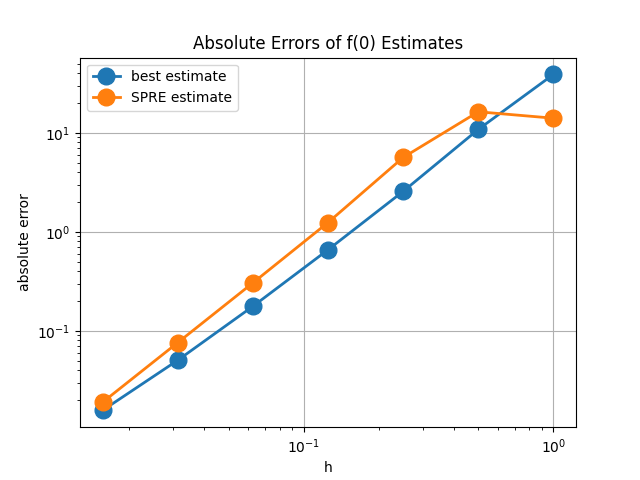
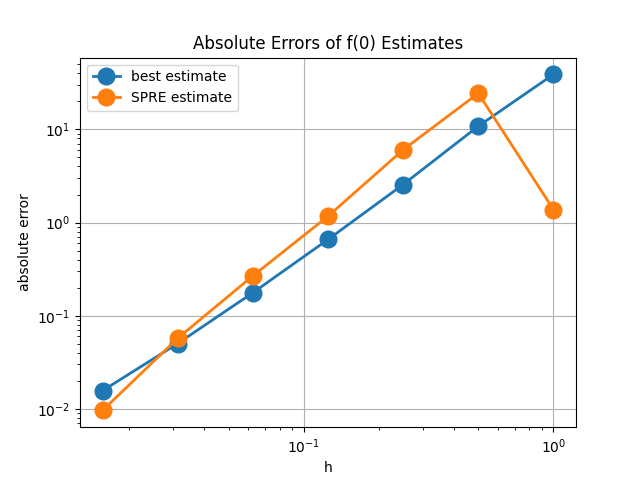
Fix for non-unisolvent sets

diff --git a/src/sparse_pre/SPRE.py b/src/sparse_pre/SPRE.py
@@ -212,24 +212,27 @@ class SPRE:
 
         return self.cv_loss_calculation(A, X, Y, Xs, Ys, x, str(row_num), return_mu_cov)
 
-    def check_unisolvent(self, VA, m):
+    def check_unisolvent(self, A):
 
+        m = A.shape[0]
+        VA = x2fx(self.X_normalised, A)
         rank = jnp.linalg.matrix_rank(VA)
 
         def on_true(_):
+            
+            return 1
+
+        def on_false(_):    
             # Raising Python errors inside JIT is not allowed.
             # Instead return a special value.
             debug.print(
-            "WARNING: basis not linearly independent. Rank={rank}, m={m}",
+            "\nWARNING: A non-unisolvent set encountered! Rank={rank}, m={m}",
             rank=rank, m=m
-        )
+        )       
             #raise ValueError("The set X is not unisolvent")
-            return -1
+            return -1   # everything OK
 
-        def on_false(_):           
-            return 1   # everything OK
-
-        return lax.cond(rank < m, on_true, on_false, operand=None)
+        return lax.cond(rank == m, on_true, on_false, operand=None)
 
     # Loss (log-likelihood of test data)
     def cv_loss_calculation(self, A : jnp.ndarray, X : jnp.ndarray, Y : jnp.ndarray, Xs : jnp.ndarray, Ys : jnp.ndarray, x : jnp.ndarray, row_num_str : str = "_", return_mu_cov : bool = False):
@@ -278,8 +281,7 @@ class SPRE:
 
         # i.e. the basis function is not linearly independent
         #status = self.check_unisolvent(VA, A.shape[0])
-            
-        
+             
         # Residual term
         # A = m x d (sparse matrix)
         # X = n_train x d
@@ -567,11 +569,12 @@ class SPRE:
                 ## Check maximum rank, must be >= m to be OK, m = number of rows in A
                 #VA = x2fx(self.X_normalised, A_new)
                 #rank = jnp.linalg.matrix_rank(VA)
-                #print(f"{rank}, {m}")             
-                fit_new = self.perform_extrapolation_optimization(A_new, do_jit)
-                cv_new = fit_new['cv']
-                if cv_new < cv: # If adding new predictor helped
-                    to_include = to_include.at[i].set(True)
+                #print(f"{rank}, {m}")
+                if self.check_unisolvent(A_new) > 0:             
+                    fit_new = self.perform_extrapolation_optimization(A_new, do_jit)
+                    cv_new = fit_new['cv']
+                    if cv_new < cv: # If adding new predictor helped
+                        to_include = to_include.at[i].set(True)
 
             if jnp.any(to_include) and ((m + sum(to_include)) < (n_train - 1)):
                 A_updated = jnp.vstack([A, A_extra[to_include]])                          

diff --git a/src/models.py b/src/models.py
@@ -142,12 +142,14 @@ class Model:
         cache_filename = self.add_path(self.cache_dir, cache_filename)
 
         if self.use_model_cache:
+            
             # Look up the value in the cache if it exists
             if os.path.exists(cache_filename):
                 with open(cache_filename, "rb") as f:
                     data = f.read(8)
                     y_result = struct.unpack('d', data)[0]       
-                    perform_model_simulation = False       
+                    perform_model_simulation = False
+                    print(f"\tUsing cached value: {y_result}")         
             
         if perform_model_simulation:
             # Run the model
@@ -553,8 +555,10 @@ class DiffusionModel(Model):
 
         eq = DiffusionPDE(self.diffusivity)  # define the pde
         self.result = eq.solve(state, t_range=[0, self.total_time], dt=dt, tracker=None)
-
-        return self.get_final_quantity(discrete_paras)
+        
+        y = self.get_final_quantity(discrete_paras)
+        print(f"\tCalculated final value: {y}")
+        return y
 
     def plot_diff_solution(self):
         # Get model output to plot
